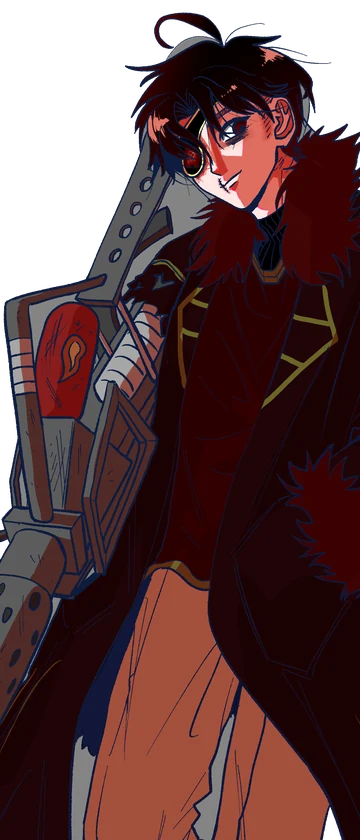
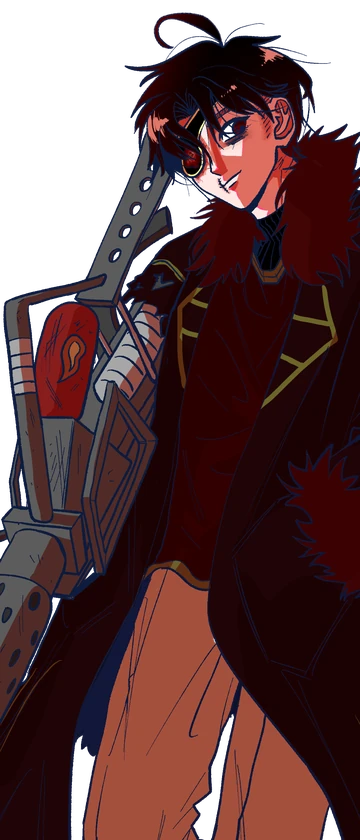
루케리안 이그니바르 일러스트 배경 정밀 제거 (Patch v-2.17.3)
Claude-Session: https://claude.ai/code/session_01Ks4FDya7wZGuSAXpb5hA45

diff --git a/index.html b/index.html
@@ -9,14 +9,14 @@
 <link rel="preconnect" href="https://fonts.googleapis.com">
 <link rel="preconnect" href="https://fonts.gstatic.com" crossorigin>
 <link href="https://fonts.googleapis.com/css2?family=Barlow+Condensed:wght@400;500;600&family=Noto+Serif+KR:wght@400;600;900&display=swap" rel="stylesheet">
-<link rel="stylesheet" href="assets/css/core.css?v=2.17.2">
-<link rel="stylesheet" href="assets/css/strips.css?v=2.17.2">
-<link rel="stylesheet" href="assets/css/home.css?v=2.17.2">
-<link rel="stylesheet" href="assets/css/deck.css?v=2.17.2">
-<link rel="stylesheet" href="assets/css/radio.css?v=2.17.2">
-<link rel="stylesheet" href="assets/css/auth.css?v=2.17.2">
-<link rel="stylesheet" href="assets/css/loader.css?v=2.17.2">
-<link rel="stylesheet" href="assets/css/military.css?v=2.17.2">
+<link rel="stylesheet" href="assets/css/core.css?v=2.17.3">
+<link rel="stylesheet" href="assets/css/strips.css?v=2.17.3">
+<link rel="stylesheet" href="assets/css/home.css?v=2.17.3">
+<link rel="stylesheet" href="assets/css/deck.css?v=2.17.3">
+<link rel="stylesheet" href="assets/css/radio.css?v=2.17.3">
+<link rel="stylesheet" href="assets/css/auth.css?v=2.17.3">
+<link rel="stylesheet" href="assets/css/loader.css?v=2.17.3">
+<link rel="stylesheet" href="assets/css/military.css?v=2.17.3">
 </head>
 <body>
 <div class="boot" data-boot role="progressbar" aria-label="불러오는 중" aria-valuemin="0" aria-valuemax="100" aria-valuenow="0">
@@ -60,10 +60,10 @@
   <section class="sec home" id="home">
     <!-- 임시 일러스트: 3초마다 순서대로. 각 그림은 자기 비율 그대로(잘리거나 늘어나지 않게) 보인다 -->
     <div class="home__show" data-show aria-hidden="true">
-      <img src="assets/img/home/01.jpg?v=2.17.2" width="1920" height="1182" alt="" class="is-on" decoding="async">
-      <img src="assets/img/home/02.jpg?v=2.17.2" width="1920" height="1041" alt="" decoding="async">
-      <img src="assets/img/home/03.jpg?v=2.17.2" width="1920" height="1033" alt="" decoding="async">
-      <img src="assets/img/home/04.jpg?v=2.17.2" width="1920" height="1016" alt="" decoding="async">
+      <img src="assets/img/home/01.jpg?v=2.17.3" width="1920" height="1182" alt="" class="is-on" decoding="async">
+      <img src="assets/img/home/02.jpg?v=2.17.3" width="1920" height="1041" alt="" decoding="async">
+      <img src="assets/img/home/03.jpg?v=2.17.3" width="1920" height="1033" alt="" decoding="async">
+      <img src="assets/img/home/04.jpg?v=2.17.3" width="1920" height="1016" alt="" decoding="async">
     </div>
     <div class="home__title">
       <p class="mono gold rv">Official Archive</p>
@@ -287,11 +287,11 @@
 </main>
 
 <noscript><p style="padding:24px">이 사이트는 자바스크립트가 켜져 있어야 정상적으로 보입니다.</p></noscript>
-<script src="assets/js/data.js?v=2.17.2"></script>
-<script src="assets/js/core.js?v=2.17.2"></script>
-<script src="assets/js/radio.js?v=2.17.2"></script>
-<script src="assets/js/firebase-config.js?v=2.17.2"></script>
-<script src="assets/js/auth.js?v=2.17.2"></script>
-<script src="assets/js/home.js?v=2.17.2" data-page></script>
+<script src="assets/js/data.js?v=2.17.3"></script>
+<script src="assets/js/core.js?v=2.17.3"></script>
+<script src="assets/js/radio.js?v=2.17.3"></script>
+<script src="assets/js/firebase-config.js?v=2.17.3"></script>
+<script src="assets/js/auth.js?v=2.17.3"></script>
+<script src="assets/js/home.js?v=2.17.3" data-page></script>
 </body>
 </html>

diff --git a/community.html b/community.html
@@ -8,12 +8,12 @@
 <link rel="preconnect" href="https://fonts.googleapis.com">
 <link rel="preconnect" href="https://fonts.gstatic.com" crossorigin>
 <link href="https://fonts.googleapis.com/css2?family=Barlow+Condensed:wght@400;500;600&family=Noto+Serif+KR:wght@400;600;900&display=swap" rel="stylesheet">
-<link rel="stylesheet" href="assets/css/core.css?v=2.17.2">
-<link rel="stylesheet" href="assets/css/sub.css?v=2.17.2">
-<link rel="stylesheet" href="assets/css/community.css?v=2.17.2">
-<link rel="stylesheet" href="assets/css/radio.css?v=2.17.2">
-<link rel="stylesheet" href="assets/css/auth.css?v=2.17.2">
-<link rel="stylesheet" href="assets/css/military.css?v=2.17.2">
+<link rel="stylesheet" href="assets/css/core.css?v=2.17.3">
+<link rel="stylesheet" href="assets/css/sub.css?v=2.17.3">
+<link rel="stylesheet" href="assets/css/community.css?v=2.17.3">
+<link rel="stylesheet" href="assets/css/radio.css?v=2.17.3">
+<link rel="stylesheet" href="assets/css/auth.css?v=2.17.3">
+<link rel="stylesheet" href="assets/css/military.css?v=2.17.3">
 </head>
 <body data-nav="community">
 <main class="page">
@@ -38,11 +38,11 @@
   </section>
 </main>
 <noscript><p style="padding:24px">이 사이트는 자바스크립트가 켜져 있어야 정상적으로 보입니다.</p></noscript>
-<script src="assets/js/data.js?v=2.17.2"></script>
-<script src="assets/js/core.js?v=2.17.2"></script>
-<script src="assets/js/radio.js?v=2.17.2"></script>
-<script src="assets/js/firebase-config.js?v=2.17.2"></script>
-<script src="assets/js/auth.js?v=2.17.2"></script>
-<script src="assets/js/community.js?v=2.17.2" data-page></script>
+<script src="assets/js/data.js?v=2.17.3"></script>
+<script src="assets/js/core.js?v=2.17.3"></script>
+<script src="assets/js/radio.js?v=2.17.3"></script>
+<script src="assets/js/firebase-config.js?v=2.17.3"></script>
+<script src="assets/js/auth.js?v=2.17.3"></script>
+<script src="assets/js/community.js?v=2.17.3" data-page></script>
 </body>
 </html>

diff --git a/characters.html b/characters.html
@@ -8,12 +8,12 @@
 <link rel="preconnect" href="https://fonts.googleapis.com">
 <link rel="preconnect" href="https://fonts.gstatic.com" crossorigin>
 <link href="https://fonts.googleapis.com/css2?family=Barlow+Condensed:wght@400;500;600&family=Noto+Serif+KR:wght@400;600;900&display=swap" rel="stylesheet">
-<link rel="stylesheet" href="assets/css/core.css?v=2.17.2">
-<link rel="stylesheet" href="assets/css/strips.css?v=2.17.2">
-<link rel="stylesheet" href="assets/css/characters.css?v=2.17.2">
-<link rel="stylesheet" href="assets/css/radio.css?v=2.17.2">
-<link rel="stylesheet" href="assets/css/auth.css?v=2.17.2">
-<link rel="stylesheet" href="assets/css/military.css?v=2.17.2">
+<link rel="stylesheet" href="assets/css/core.css?v=2.17.3">
+<link rel="stylesheet" href="assets/css/strips.css?v=2.17.3">
+<link rel="stylesheet" href="assets/css/characters.css?v=2.17.3">
+<link rel="stylesheet" href="assets/css/radio.css?v=2.17.3">
+<link rel="stylesheet" href="assets/css/auth.css?v=2.17.3">
+<link rel="stylesheet" href="assets/css/military.css?v=2.17.3">
 </head>
 <body data-nav="character">
 <main class="page">
@@ -85,11 +85,11 @@
 </main>
 
 <noscript><p style="padding:24px">이 사이트는 자바스크립트가 켜져 있어야 정상적으로 보입니다.</p></noscript>
-<script src="assets/js/data.js?v=2.17.2"></script>
-<script src="assets/js/core.js?v=2.17.2"></script>
-<script src="assets/js/radio.js?v=2.17.2"></script>
-<script src="assets/js/firebase-config.js?v=2.17.2"></script>
-<script src="assets/js/auth.js?v=2.17.2"></script>
-<script src="assets/js/characters.js?v=2.17.2" data-page></script>
+<script src="assets/js/data.js?v=2.17.3"></script>
+<script src="assets/js/core.js?v=2.17.3"></script>
+<script src="assets/js/radio.js?v=2.17.3"></script>
+<script src="assets/js/firebase-config.js?v=2.17.3"></script>
+<script src="assets/js/auth.js?v=2.17.3"></script>
+<script src="assets/js/characters.js?v=2.17.3" data-page></script>
 </body>
 </html>

diff --git a/gallery.html b/gallery.html
@@ -8,11 +8,11 @@
 <link rel="preconnect" href="https://fonts.googleapis.com">
 <link rel="preconnect" href="https://fonts.gstatic.com" crossorigin>
 <link href="https://fonts.googleapis.com/css2?family=Barlow+Condensed:wght@400;500;600&family=Noto+Serif+KR:wght@400;600;900&display=swap" rel="stylesheet">
-<link rel="stylesheet" href="assets/css/core.css?v=2.17.2">
-<link rel="stylesheet" href="assets/css/sub.css?v=2.17.2">
-<link rel="stylesheet" href="assets/css/radio.css?v=2.17.2">
-<link rel="stylesheet" href="assets/css/auth.css?v=2.17.2">
-<link rel="stylesheet" href="assets/css/military.css?v=2.17.2">
+<link rel="stylesheet" href="assets/css/core.css?v=2.17.3">
+<link rel="stylesheet" href="assets/css/sub.css?v=2.17.3">
+<link rel="stylesheet" href="assets/css/radio.css?v=2.17.3">
+<link rel="stylesheet" href="assets/css/auth.css?v=2.17.3">
+<link rel="stylesheet" href="assets/css/military.css?v=2.17.3">
 </head>
 <body data-nav="gallery">
 <main class="page">
@@ -41,11 +41,11 @@
 </div>
 
 <noscript><p style="padding:24px">이 사이트는 자바스크립트가 켜져 있어야 정상적으로 보입니다.</p></noscript>
-<script src="assets/js/data.js?v=2.17.2"></script>
-<script src="assets/js/core.js?v=2.17.2"></script>
-<script src="assets/js/radio.js?v=2.17.2"></script>
-<script src="assets/js/firebase-config.js?v=2.17.2"></script>
-<script src="assets/js/auth.js?v=2.17.2"></script>
-<script src="assets/js/gallery.js?v=2.17.2" data-page></script>
+<script src="assets/js/data.js?v=2.17.3"></script>
+<script src="assets/js/core.js?v=2.17.3"></script>
+<script src="assets/js/radio.js?v=2.17.3"></script>
+<script src="assets/js/firebase-config.js?v=2.17.3"></script>
+<script src="assets/js/auth.js?v=2.17.3"></script>
+<script src="assets/js/gallery.js?v=2.17.3" data-page></script>
 </body>
 </html>

diff --git a/novels.html b/novels.html
@@ -8,11 +8,11 @@
 <link rel="preconnect" href="https://fonts.googleapis.com">
 <link rel="preconnect" href="https://fonts.gstatic.com" crossorigin>
 <link href="https://fonts.googleapis.com/css2?family=Barlow+Condensed:wght@400;500;600&family=Noto+Serif+KR:wght@400;600;900&display=swap" rel="stylesheet">
-<link rel="stylesheet" href="assets/css/core.css?v=2.17.2">
-<link rel="stylesheet" href="assets/css/sub.css?v=2.17.2">
-<link rel="stylesheet" href="assets/css/radio.css?v=2.17.2">
-<link rel="stylesheet" href="assets/css/auth.css?v=2.17.2">
-<link rel="stylesheet" href="assets/css/military.css?v=2.17.2">
+<link rel="stylesheet" href="assets/css/core.css?v=2.17.3">
+<link rel="stylesheet" href="assets/css/sub.css?v=2.17.3">
+<link rel="stylesheet" href="assets/css/radio.css?v=2.17.3">
+<link rel="stylesheet" href="assets/css/auth.css?v=2.17.3">
+<link rel="stylesheet" href="assets/css/military.css?v=2.17.3">
 </head>
 <body data-nav="novel">
 <main class="page">
@@ -34,10 +34,10 @@
   </section>
 </main>
 <noscript><p style="padding:24px">이 사이트는 자바스크립트가 켜져 있어야 정상적으로 보입니다.</p></noscript>
-<script src="assets/js/data.js?v=2.17.2"></script>
-<script src="assets/js/core.js?v=2.17.2"></script>
-<script src="assets/js/radio.js?v=2.17.2"></script>
-<script src="assets/js/firebase-config.js?v=2.17.2"></script>
-<script src="assets/js/auth.js?v=2.17.2"></script>
+<script src="assets/js/data.js?v=2.17.3"></script>
+<script src="assets/js/core.js?v=2.17.3"></script>
+<script src="assets/js/radio.js?v=2.17.3"></script>
+<script src="assets/js/firebase-config.js?v=2.17.3"></script>
+<script src="assets/js/auth.js?v=2.17.3"></script>
 </body>
 </html>

diff --git a/assets/js/data.js b/assets/js/data.js
@@ -16,7 +16,7 @@ window.RSC_DATA = {
     /* 등록된 캐릭터 (번호: 덮어쓸 항목). 상세 설명은 아직 비워 둔다 */
     var CHARS = {
       1: { name: '루케리안 이그니바르', nameEn: 'LUKERIAN IGNIVAR',
-           image: 'assets/img/characters/01-lukerian.webp', thumb: 'assets/img/characters/01-lukerian-thumb.webp' }
+           image: 'assets/img/characters/01-lukerian.webp?v=2', thumb: 'assets/img/characters/01-lukerian-thumb.webp?v=2' }
     };
     return Object.assign({
       id: id,
@@ -188,6 +188,15 @@ window.RSC_DATA = {
   ],
 
   notices: [
+    {
+      title: 'Patch v-2.17.3',
+      date: '2026.11.14',
+      tag: '공지',
+      body: [
+        '루케리안 이그니바르 일러스트의 배경을 다시 깔끔하게 따냈습니다. 총과 코트 사이, 팔 틈, 다리 사이에 남아 있던 회색이 모두 지워졌습니다.',
+        '테두리의 회색 테를 없애 머리카락 끝까지 바탕과 자연스럽게 이어집니다. 바위 무늬와 총의 회색처럼 그림에 원래 있는 회색은 그대로 두었습니다.'
+      ]
+    },
     {
       title: 'Patch v-2.17.2',
       date: '2026.11.14',
